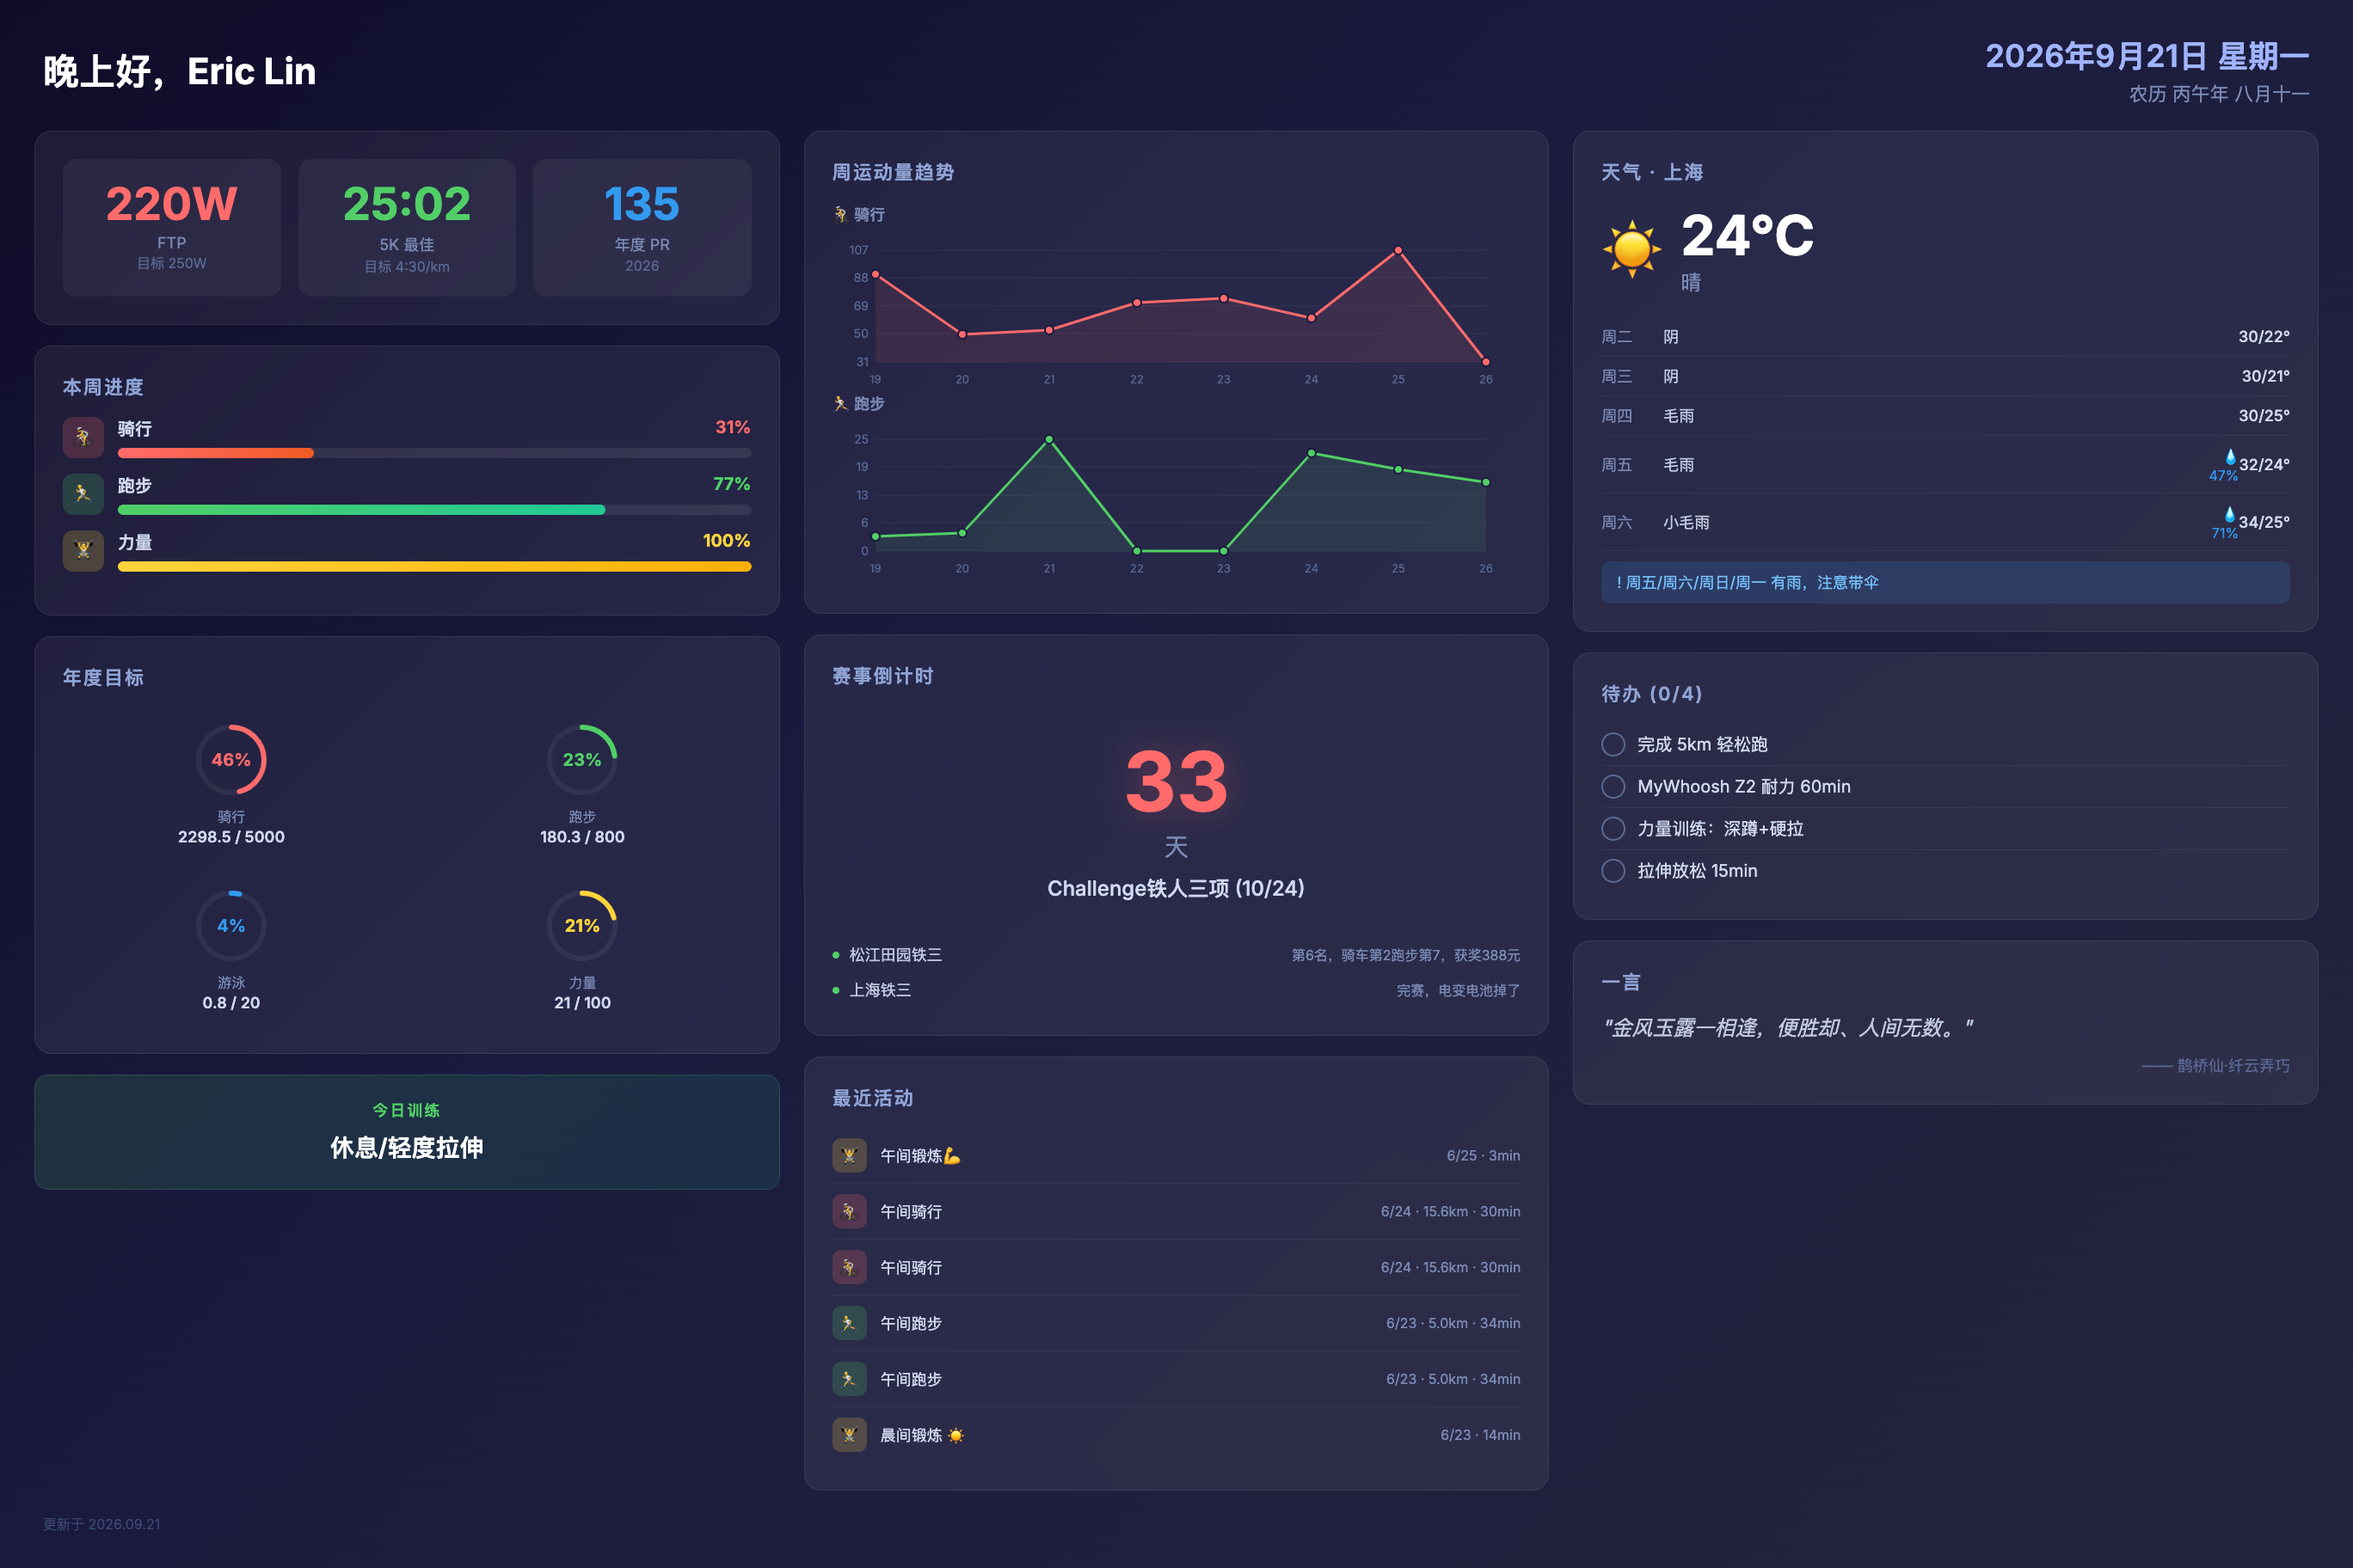
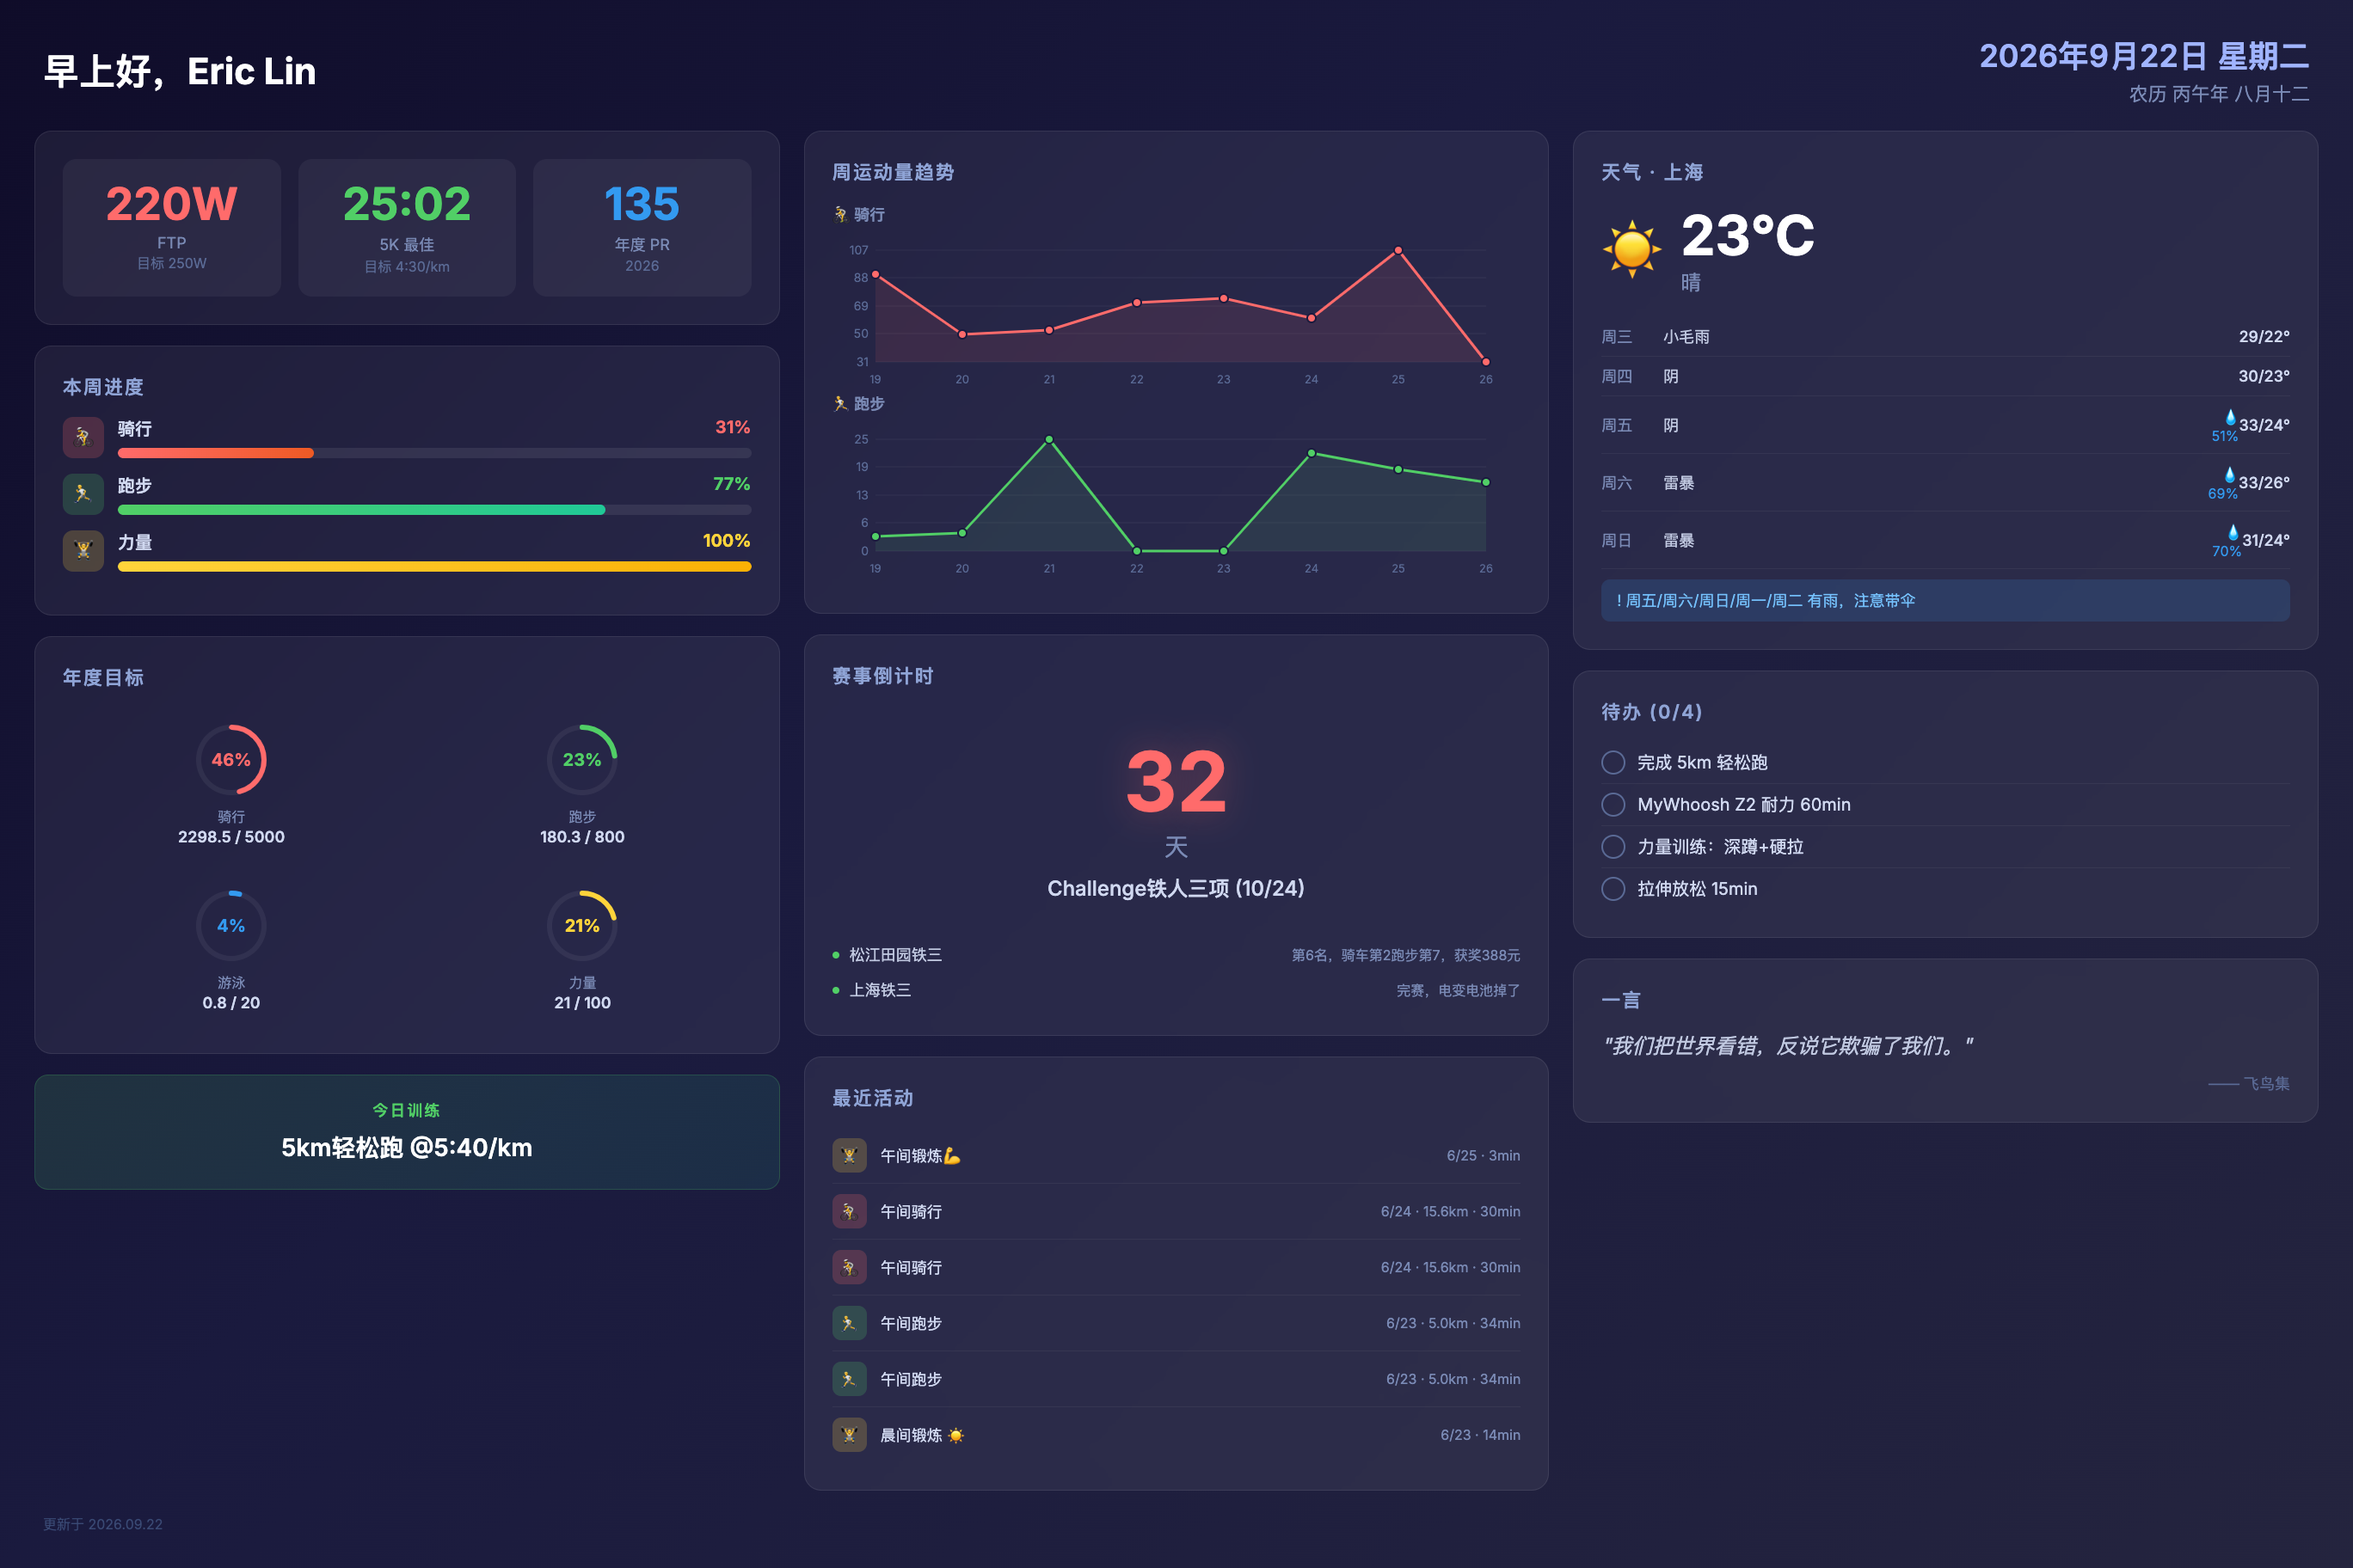
deploy: 2026-09-22-07:00

diff --git a/screensaver.html b/screensaver.html
@@ -490,13 +490,13 @@ html, body {
 <!-- ===== TOP BAR ===== -->
 <div class="top-bar">
   <div>
-    <div class="greeting">晚上好，Eric Lin</div>
+    <div class="greeting">早上好，Eric Lin</div>
     
   </div>
   <div class="date-info">
-    <div class="solar-date">2026年9月21日 星期一</div>
+    <div class="solar-date">2026年9月22日 星期二</div>
     
-    <div class="lunar-date">农历 丙午年 八月十一</div>
+    <div class="lunar-date">农历 丙午年 八月十二</div>
     
   </div>
 </div>
@@ -638,7 +638,7 @@ html, body {
   
   <div class="ai-today-card">
     <div class="ai-today-label">今日训练</div>
-    <div class="ai-today-text">休息/轻度拉伸</div>
+    <div class="ai-today-text">5km轻松跑 @5:40/km</div>
   </div>
   
 
@@ -732,7 +732,7 @@ html, body {
   <div class="card">
     <div class="card-title">赛事倒计时</div>
     <div class="race-countdown">
-      <div class="countdown-number">33</div>
+      <div class="countdown-number">32</div>
       <div class="countdown-unit">天</div>
       <div class="countdown-name">Challenge铁人三项 (10/24)</div>
     </div>
@@ -810,50 +810,50 @@ html, body {
     <div class="weather-current">
       <div class="weather-icon-big">☀</div>
       <div>
-        <div class="weather-temp-big">24°C</div>
+        <div class="weather-temp-big">23°C</div>
         <div class="weather-desc">晴</div>
       </div>
     </div>
     
     
     <div class="forecast-row">
-      <div class="forecast-day">周二</div>
-      <div class="forecast-desc">阴</div>
-      <div class="forecast-precip"></div>
-      <div class="forecast-range">30/22°</div>
-    </div>
-    
-    <div class="forecast-row">
       <div class="forecast-day">周三</div>
-      <div class="forecast-desc">阴</div>
+      <div class="forecast-desc">小毛雨</div>
       <div class="forecast-precip"></div>
-      <div class="forecast-range">30/21°</div>
+      <div class="forecast-range">29/22°</div>
     </div>
     
     <div class="forecast-row">
       <div class="forecast-day">周四</div>
-      <div class="forecast-desc">毛雨</div>
+      <div class="forecast-desc">阴</div>
       <div class="forecast-precip"></div>
-      <div class="forecast-range">30/25°</div>
+      <div class="forecast-range">30/23°</div>
     </div>
     
     <div class="forecast-row">
       <div class="forecast-day">周五</div>
-      <div class="forecast-desc">毛雨</div>
-      <div class="forecast-precip">💧47%</div>
-      <div class="forecast-range">32/24°</div>
+      <div class="forecast-desc">阴</div>
+      <div class="forecast-precip">💧51%</div>
+      <div class="forecast-range">33/24°</div>
     </div>
     
     <div class="forecast-row">
       <div class="forecast-day">周六</div>
-      <div class="forecast-desc">小毛雨</div>
-      <div class="forecast-precip">💧71%</div>
-      <div class="forecast-range">34/25°</div>
+      <div class="forecast-desc">雷暴</div>
+      <div class="forecast-precip">💧69%</div>
+      <div class="forecast-range">33/26°</div>
+    </div>
+    
+    <div class="forecast-row">
+      <div class="forecast-day">周日</div>
+      <div class="forecast-desc">雷暴</div>
+      <div class="forecast-precip">💧70%</div>
+      <div class="forecast-range">31/24°</div>
     </div>
     
     
     
-    <div class="rain-alert">! 周五/周六/周日/周一 有雨，注意带伞</div>
+    <div class="rain-alert">! 周五/周六/周日/周一/周二 有雨，注意带伞</div>
     
   </div>
   
@@ -902,9 +902,9 @@ html, body {
   
   <div class="card">
     <div class="card-title">一言</div>
-    <div class="quote-text">"金风玉露一相逢，便胜却、人间无数。"</div>
+    <div class="quote-text">"我们把世界看错，反说它欺骗了我们。"</div>
     
-    <div class="quote-from">—— 鹊桥仙·纤云弄巧</div>
+    <div class="quote-from">—— 飞鸟集</div>
     
   </div>
   
@@ -913,7 +913,7 @@ html, body {
 
 <!-- ===== BOTTOM BAR ===== -->
 <div class="bottom-bar">
-  <div class="update-time">更新于 2026.09.21</div>
+  <div class="update-time">更新于 2026.09.22</div>
 </div>
 
 </div>

diff --git a/life.html b/life.html
@@ -89,7 +89,7 @@ html, body {
 <table class="header-table">
   <tr>
     <td class="header-left">生活</td>
-    <td class="header-right">2026.09.21</td>
+    <td class="header-right">2026.09.22</td>
   </tr>
 </table>
 
@@ -138,7 +138,7 @@ html, body {
   <table class="weather-table">
     <tr>
       <td class="weather-icon">*</td>
-      <td class="weather-temp">24°C</td>
+      <td class="weather-temp">23°C</td>
       <td class="weather-desc">晴</td>
     </tr>
   </table>
@@ -146,58 +146,58 @@ html, body {
   <table class="forecast-table">
     
     <tr>
-      <td class="forecast-day">周二</td>
-      <td class="forecast-icon">~</td>
-      <td>阴</td>
-      <td class="forecast-range">30/22°C</td>
-    </tr>
-    
-    <tr>
       <td class="forecast-day">周三</td>
-      <td class="forecast-icon">~</td>
-      <td>阴</td>
-      <td class="forecast-range">30/21°C</td>
+      <td class="forecast-icon">.</td>
+      <td>小毛雨</td>
+      <td class="forecast-range">29/22°C</td>
     </tr>
     
     <tr>
       <td class="forecast-day">周四</td>
-      <td class="forecast-icon">.</td>
-      <td>毛雨</td>
-      <td class="forecast-range">30/25°C</td>
+      <td class="forecast-icon">~</td>
+      <td>阴</td>
+      <td class="forecast-range">30/23°C</td>
     </tr>
     
     <tr>
       <td class="forecast-day">周五</td>
-      <td class="forecast-icon">.</td>
-      <td>毛雨</td>
-      <td class="forecast-range">32/24°C</td>
+      <td class="forecast-icon">~</td>
+      <td>阴</td>
+      <td class="forecast-range">33/24°C</td>
     </tr>
     
     <tr>
       <td class="forecast-day">周六</td>
-      <td class="forecast-icon">.</td>
-      <td>小毛雨</td>
-      <td class="forecast-range">34/25°C</td>
+      <td class="forecast-icon">!</td>
+      <td>雷暴</td>
+      <td class="forecast-range">33/26°C</td>
     </tr>
     
     <tr>
       <td class="forecast-day">周日</td>
       <td class="forecast-icon">!</td>
       <td>雷暴</td>
-      <td class="forecast-range">29/24°C</td>
+      <td class="forecast-range">31/24°C</td>
     </tr>
     
     <tr>
       <td class="forecast-day">周一</td>
       <td class="forecast-icon">.</td>
       <td>毛雨</td>
-      <td class="forecast-range">27/25°C</td>
+      <td class="forecast-range">28/25°C</td>
+    </tr>
+    
+    <tr>
+      <td class="forecast-day">周二</td>
+      <td class="forecast-icon">!</td>
+      <td>雷暴</td>
+      <td class="forecast-range">31/25°C</td>
     </tr>
     
   </table>
   
   
-  <div class="rain-alert">! 周五/周六/周日/周一 有雨，注意带伞</div>
+  <div class="rain-alert">! 周五/周六/周日/周一/周二 有雨，注意带伞</div>
   
 </div>
 
@@ -207,10 +207,10 @@ html, body {
   <p class="section-title">📅 今日</p>
   <table class="data-table">
     <tr>
-      <td>2026年9月21日 星期日</td>
+      <td>2026年9月22日 星期一</td>
     </tr>
     <tr>
-      <td>农历丙午年 八月十一</td>
+      <td>农历丙午年 八月十二</td>
     </tr>
   </table>
 </div>
@@ -261,9 +261,9 @@ html, body {
 
 <div class="box">
   <p class="section-title">💬 一言</p>
-  <p class="quote-text">金风玉露一相逢，便胜却、人间无数。</p>
+  <p class="quote-text">我们把世界看错，反说它欺骗了我们。</p>
   
-  <p class="quote-from">—— 鹊桥仙·纤云弄巧</p>
+  <p class="quote-from">—— 飞鸟集</p>
   
 </div>
 

diff --git a/index.html b/index.html
@@ -74,7 +74,7 @@ html, body {
 <table class="header-table">
   <tr>
     <td class="header-left">Eric Lin · 运动</td>
-    <td class="header-right">2026.09.21</td>
+    <td class="header-right">2026.09.22</td>
   </tr>
 </table>
 
@@ -225,17 +225,10 @@ html, body {
 <div class="ai-plan">
   <div class="ai-plan-title">AI 训练建议</div>
   
-  <div class="ai-today">今日: 休息</div>
+  <div class="ai-today">今日: 阈值训练 3×8min @260W</div>
   
   
   <table class="ai-weekly">
-    
-    <tr>
-      <td class="day">周一</td>
-      
-      <td class="rest">休息</td>
-      
-    </tr>
     
     <tr>
       <td class="day">周二</td>
@@ -279,6 +272,13 @@ html, body {
       
     </tr>
     
+    <tr>
+      <td class="day">周一</td>
+      
+      <td class="rest">休息</td>
+      
+    </tr>
+    
   </table>
   
   
@@ -293,7 +293,7 @@ html, body {
   <p class="section-title">即将到来</p>
   
   <div class="countdown-box">
-    <div class="countdown-days">33</div>
+    <div class="countdown-days">32</div>
     <div class="countdown-label">距 Challenge铁人三项 (10/24)</div>
   </div>
   

diff --git a/work.html b/work.html
@@ -89,7 +89,7 @@ html, body {
 <table class="header-table">
   <tr>
     <td class="header-left">工作</td>
-    <td class="header-right">2026.09.21</td>
+    <td class="header-right">2026.09.22</td>
   </tr>
 </table>
 
